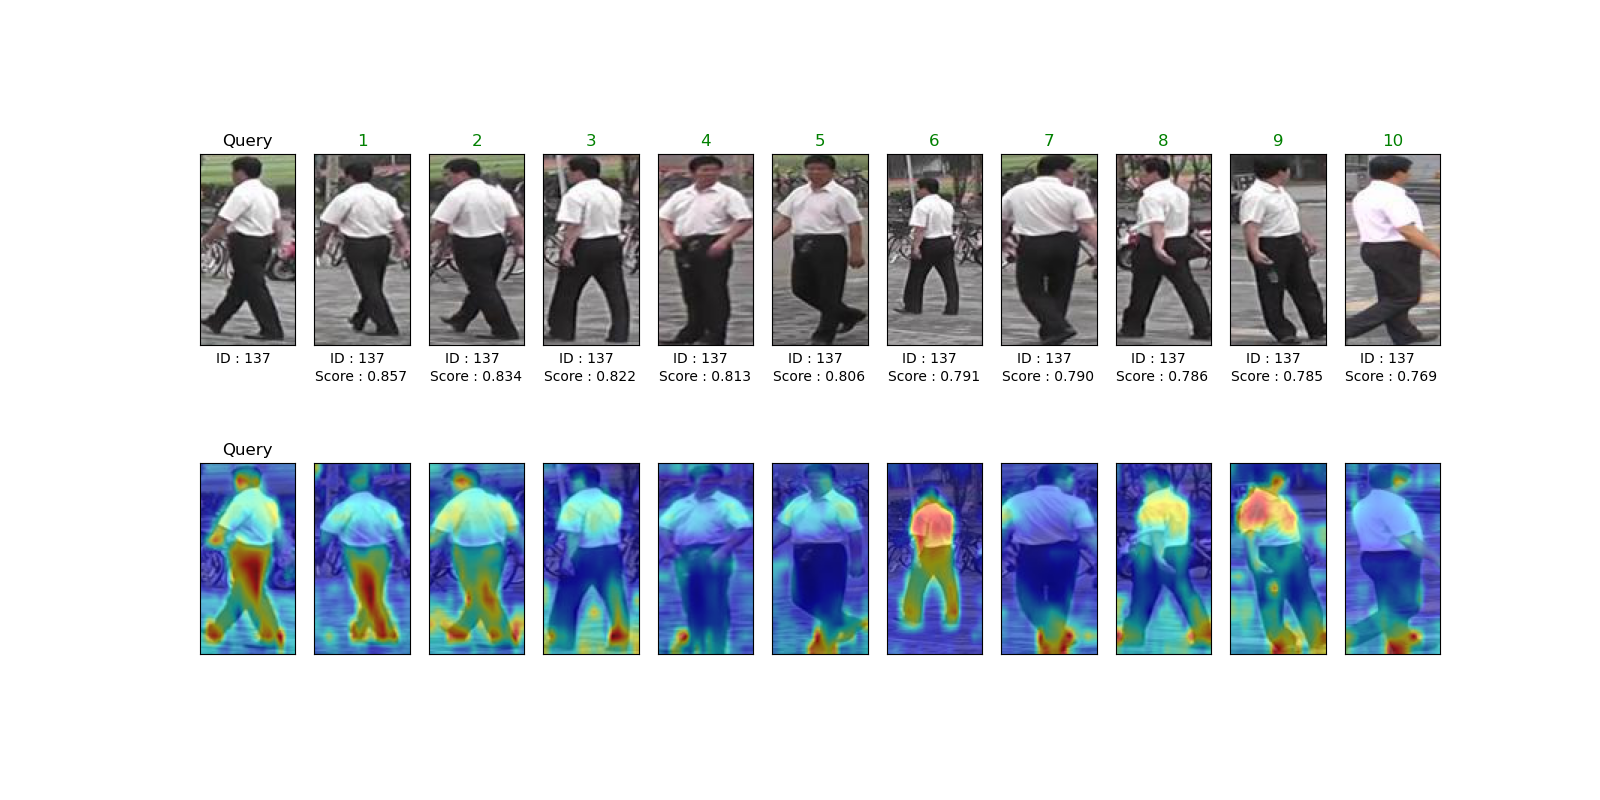
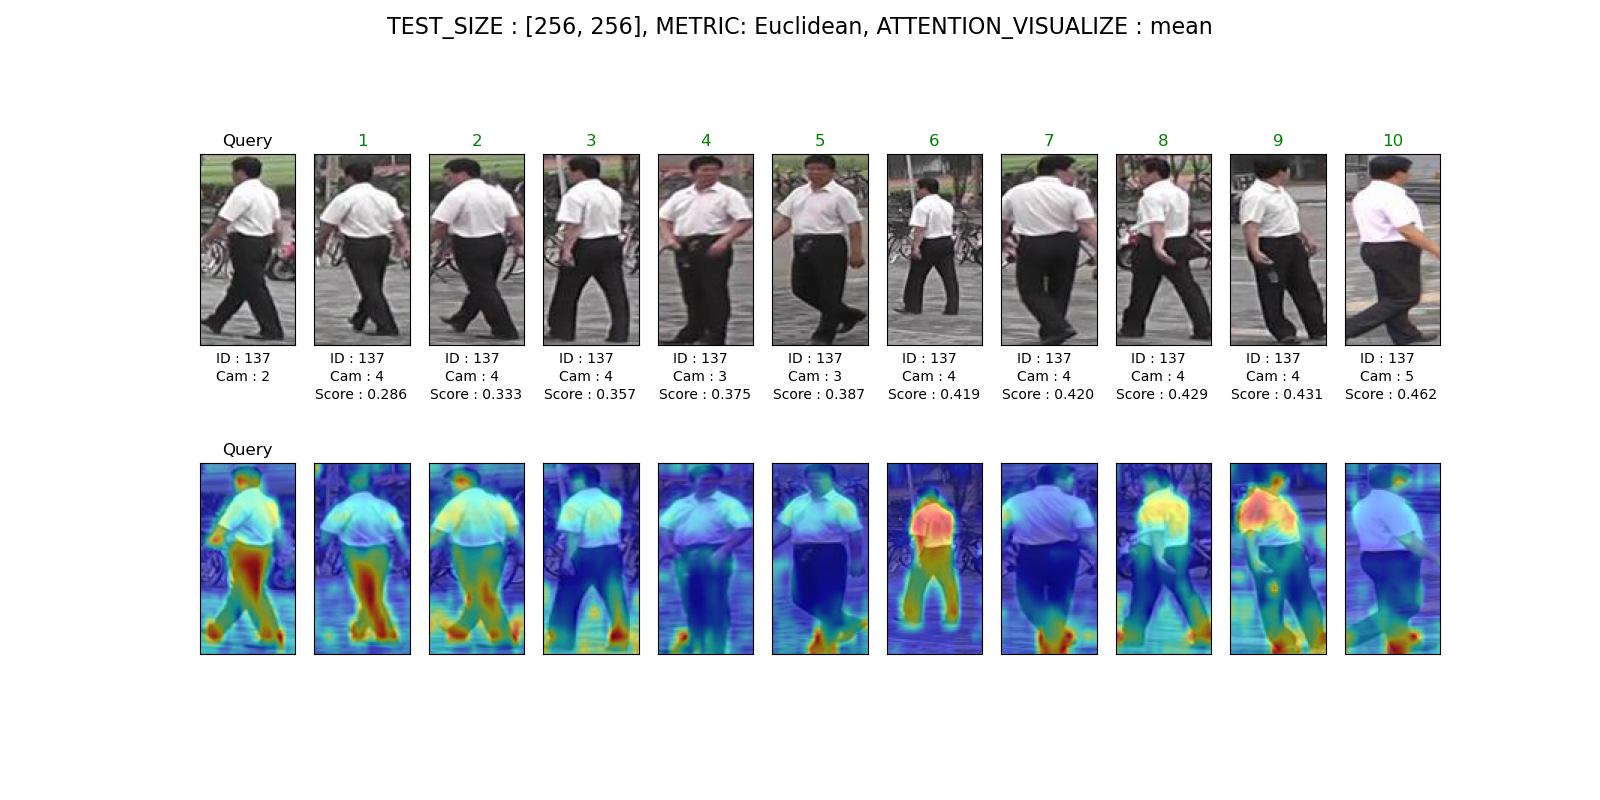
Max Error ID finding 0310

diff --git a/processor/demo.py b/processor/demo.py
@@ -45,6 +45,7 @@ def show_mask_on_image(img, mask):
 parser = argparse.ArgumentParser(description='Demo')
 parser.add_argument("--config_file", default="", help="path to config file", type=str)
 parser.add_argument('--use_cuda', action='store_true', default=False,help='Use NVIDIA GPU acceleration')
+
 # parser.add_argument('--test_dir',default='/mnt/hdd_data/Dataset/market1501',type=str, help='./test_data')
 parser.add_argument("opts", help="Modify config options using the command-line", default=None,
                         nargs=argparse.REMAINDER)
@@ -62,6 +63,7 @@ transform = T.Compose([
 ])
 
 os.environ['CUDA_VISIBLE_DEVICES'] = cfg.MODEL.DEVICE_ID
+
 
 dataset = __factory[cfg.DATASETS.NAMES](root=cfg.DATASETS.ROOT_DIR)
 model = make_model(cfg, num_class=dataset.num_train_pids, camera_num=dataset.num_train_cams, view_num = dataset.num_train_vids)
@@ -83,7 +85,8 @@ def axis_off(ax):
     ax.get_xaxis().set_visible(False)
     ax.get_yaxis().set_visible(False)  
 ######################################################################
-result = scipy.io.loadmat('pytorch_result.mat')
+result = scipy.io.loadmat(f'result/result_matrix/{cfg.INDEX}.mat')
+
 query_feature = torch.FloatTensor(result['query_f'])
 query_cam = result['query_cam'][0]
 query_label = result['query_label'][0]
@@ -96,6 +99,8 @@ gallery_label = result['gallery_label'][0]
 g_root = result['g_dir'][0]
 gallery_path_list = result['img_path'][query_label.size:]
 
+dist_eucd = result['Euclidean_dist']
+dist_cos = result['Cos_dist']
 # img_path = result['img_path']
 
 # multi = os.path.isfile('multi_query.mat')
@@ -112,31 +117,78 @@ gallery_feature = gallery_feature.cuda()
 
 #######################################################################
 # sort the images
-def sort_img(qf, ql, qc, gf, gl, gc):
-    query = qf.view(-1,1)
-    # query.view(-1,1) --> torch.size([768,1])
-    # print(query.shape)
-    score = torch.mm(gf,query) # gf.size([15913,768]), query.size([768,1]) --> matrix multiplication [15913,1]
-    # 각 gallery feature와 query feature간 내적 (similairity)
-    score = score.squeeze(1).cpu() # feature similarity size : gallery size
-    score = score.numpy() 
+# def sort_img(qf, ql, qc, gf, gl, gc):
+#     query = qf.view(-1,1)
+#     # query.view(-1,1) --> torch.size([768,1])
+#     # print(query.shape)
+#     score = torch.mm(gf,query) # gf.size([15913,768]), query.size([768,1]) --> matrix multiplication [15913,1]
+#     # 각 gallery feature와 query feature간 내적 (similairity)
+#     score = score.squeeze(1).cpu() # feature similarity size : gallery size
+#     score = score.numpy() 
+#     # predict index
+#     index = np.argsort(score)[::-1] #sort by index from large to small
+#     score = np.sort(score)[::-1]
+#     # index = index[0:2000]
+#     # good index
+#     query_index = np.argwhere(gl==ql) # query label과 gallery index가 같은 index
+#     #same camera
+#     camera_index = np.argwhere(gc==qc) # query cam과 gallery cam이 같은 index
+
+#     #good_index = np.setdiff1d(query_index, camera_index, assume_unique=True)
+#     junk_index1 = np.argwhere(gl==-1) # gallery id가 -1인 건 제외
+#     junk_index2 = np.intersect1d(query_index, camera_index) # np.intersect1d : 교집합, 즉 pid와 cid가 같은 gallery
+#     junk_index = np.append(junk_index2, junk_index1) 
+
+#     mask = np.in1d(index, junk_index, invert=True) # 1차원 배열의 각 요소가 두번째 배열에도 있는지 확인
+#     index = index[mask]
+#     score = score[mask]
+#     # test = np.array([0, 1, 2, 5, 0])
+#     # states = [0, 2]
+#     # mask = np.in1d(test, states)
+#     # mask
+#     # array([ True, False,  True, False,  True])
+#     # test[mask]
+#     # array([0, 2, 0])
+#     # mask = np.in1d(test, states, invert=True)
+#     # mask
+#     # array([False,  True, False,  True, False])
+#     # test[mask]
+#     # array([1, 5])
+    
+#     # 즉, junk index를 제외한 index를 return 하겠다는 것
+
+#     return index, score
+
+def sort_img(dist_eucd, dist_cos, index, ql, qc, gl, gc):
+    
+    eucd_score = dist_eucd[index]
+    cos_score = dist_cos[index]
+
     # predict index
-    index = np.argsort(score)[::-1] #sort by index from large to small
-    score = np.sort(score)[::-1]
+    eucd_index = np.argsort(eucd_score) #sort by index from large to small
+    eucd_score = np.sort(eucd_score)
+
+    cos_index = np.argsort(cos_score)[::-1] #sort by index from large to small
+    cos_score = np.sort(cos_score)[::-1]
     # index = index[0:2000]
     # good index
-    query_index = np.argwhere(gl==ql) # query label과 gallery index가 같은 index
+    query_index = np.argwhere(gl==ql[index]) # query label과 gallery index가 같은 index
     #same camera
-    camera_index = np.argwhere(gc==qc) # query cam과 gallery cam이 같은 index
+    camera_index = np.argwhere(gc==qc[index]) # query cam과 gallery cam이 같은 index
 
     #good_index = np.setdiff1d(query_index, camera_index, assume_unique=True)
     junk_index1 = np.argwhere(gl==-1) # gallery id가 -1인 건 제외
     junk_index2 = np.intersect1d(query_index, camera_index) # np.intersect1d : 교집합, 즉 pid와 cid가 같은 gallery
     junk_index = np.append(junk_index2, junk_index1) 
 
-    mask = np.in1d(index, junk_index, invert=True) # 1차원 배열의 각 요소가 두번째 배열에도 있는지 확인
-    index = index[mask]
-    score = score[mask]
+    eucd_mask = np.in1d(eucd_index, junk_index, invert=True)
+    cos_mask = np.in1d(cos_index, junk_index, invert=True) # 1차원 배열의 각 요소가 두번째 배열에도 있는지 확인
+    
+    eucd_index = eucd_index[eucd_mask]
+    eucd_score = eucd_score[eucd_mask]
+
+    cos_index = cos_index[cos_mask]
+    cos_score = cos_score[cos_mask]
     # test = np.array([0, 1, 2, 5, 0])
     # states = [0, 2]
     # mask = np.in1d(test, states)
@@ -152,8 +204,94 @@ def sort_img(qf, ql, qc, gf, gl, gc):
     
     # 즉, junk index를 제외한 index를 return 하겠다는 것
 
-    return index,score
+    return eucd_index, eucd_score, cos_index, cos_score
 
+def sort_img_2(dist_eucd, dist_cos, rank, ql, qc, gl, gc):
+    
+    query_length = dist_eucd.shape[0]
+    query_ID = np.unique(ql)
+
+    eucd_score = dist_eucd
+    cos_score = dist_cos
+    # predict index
+    eucd_index = np.argsort(eucd_score) # sort by index from large to small
+    eucd_score = np.sort(eucd_score)
+
+    cos_index = np.argsort(cos_score)
+    #cos_index = np.flip(cos_index,1) # sort by index from large to small
+    cos_score = np.sort(cos_score)
+    #cos_score = np.flip(cos_score,1) # sort by index from large to small
+    # index = index[0:2000]
+    # good index
+    eucd_rank_index = np.zeros((query_length,rank)).astype(int)
+    eucd_rank_score = np.zeros((query_length,rank))
+    cos_rank_index = np.zeros((query_length,rank)).astype(int)
+    cos_rank_score = np.zeros((query_length,rank))
+    query_ID_wise_match_Eucd = np.zeros(query_ID.max()+1).astype(int)
+    query_ID_wise_match_Cos = np.zeros(query_ID.max()+1).astype(int)
+    for idx in range(query_length):
+
+        query_index = np.argwhere(gl==ql[idx]) # query label과 gallery index가 같은 index
+        #same camera
+        camera_index = np.argwhere(gc==qc[idx]) # query cam과 gallery cam이 같은 index
+
+        #good_index = np.setdiff1d(query_index, camera_index, assume_unique=True)
+        junk_index1 = np.argwhere(gl==-1) # gallery id가 -1인 건 제외
+        junk_index2 = np.intersect1d(query_index, camera_index) # np.intersect1d : 교집합, 즉 pid와 cid가 같은 gallery
+        junk_index = np.append(junk_index2, junk_index1) 
+
+        eucd_mask = np.in1d(eucd_index[idx], junk_index, invert=True)
+        cos_mask = np.in1d(cos_index[idx], junk_index, invert=True) # 1차원 배열의 각 요소가 두번째 배열에도 있는지 확인
+        
+        eucd_index_idx = eucd_index[idx][eucd_mask]
+        eucd_score_idx = eucd_score[idx][eucd_mask]
+
+        cos_index_idx = cos_index[idx][cos_mask]
+        cos_score_idx = cos_score[idx][cos_mask]
+
+        eucd_rank_index[idx] = eucd_index_idx[:rank]
+        query_ID_wise_match_Eucd[ql[idx]] += np.count_nonzero(gl[eucd_rank_index[idx]] != ql[idx])
+        eucd_rank_score[idx] = eucd_score_idx[:rank]
+
+        cos_rank_index[idx] = cos_index_idx[:rank]
+        query_ID_wise_match_Cos[ql[idx]] += np.count_nonzero(gl[cos_rank_index[idx]] != ql[idx])
+        cos_rank_score[idx] = cos_score_idx[:rank]
+    
+    query_ID_wise_match_Eucd = query_ID_wise_match_Eucd[query_ID]
+    query_ID_wise_match_Cos = query_ID_wise_match_Cos[query_ID]
+
+    Max_error_ID_Eucd = query_ID[query_ID_wise_match_Eucd.argmax()]
+    Max_error_ID_Eucd_idx = np.where(ql==Max_error_ID_Eucd)[0]
+    Rank_error_Eucd_idx = eucd_rank_index[Max_error_ID_Eucd_idx]
+    Rank_error_Eucd_score = eucd_rank_score[Max_error_ID_Eucd_idx]
+
+    Max_error_ID_Cos = query_ID[query_ID_wise_match_Cos.argmax()]
+    Max_error_ID_Cos_idx = np.where(ql==Max_error_ID_Cos)[0]
+    Rank_error_Cos_idx = cos_rank_index[Max_error_ID_Cos_idx]
+    Rank_error_Cos_score = cos_rank_score[Max_error_ID_Cos_idx]
+    # for i, ID in enumerate(query_ID) :
+    #     query_ID_index = np.where(ql == ID)[0]
+    #     for j in query_ID_index :
+    #         query_ID_wise_match_Eucd[i] += np.count_nonzero(gl[eucd_rank_index[j]] != ID)
+    #         query_ID_wise_match_Cos[i] += np.count_nonzero(gl[cos_rank_index[j]] != ID)
+
+
+    # test = np.array([0, 1, 2, 5, 0])
+    # states = [0, 2]
+    # mask = np.in1d(test, states)
+    # mask
+    # array([ True, False,  True, False,  True])
+    # test[mask]
+    # array([0, 2, 0])
+    # mask = np.in1d(test, states, invert=True)
+    # mask
+    # array([False,  True, False,  True, False])
+    # test[mask]
+    # array([1, 5])
+    
+    # 즉, junk index를 제외한 index를 return 하겠다는 것
+
+    return  Max_error_ID_Eucd_idx, Max_error_ID_Cos_idx, Rank_error_Eucd_idx, Rank_error_Eucd_score, Rank_error_Cos_idx, Rank_error_Cos_score
 def Attention_map(img_path):
     img = Image.open(img_path)
     img_input = img.resize(cfg.INPUT.SIZE_TEST)
@@ -177,7 +315,11 @@ def Attention_map(img_path):
     return mask
     # cv2.imwrite("./result/"+sname, mask)
 i = cfg.TEST.VISUALIZE_INDEX
-index,score = sort_img(query_feature[i],query_label[i],query_cam[i],gallery_feature,gallery_label,gallery_cam)
+# index,score = sort_img(query_feature[i],query_label[i],query_cam[i],gallery_feature,gallery_label,gallery_cam)
+
+eucd_index,eucd_score,cos_index,cos_score = sort_img(dist_eucd,dist_cos,i,query_label,query_cam,gallery_label,gallery_cam)
+Query_idx_Eucd, Query_idx_Cos, Rank_error_Eucd_idx, Rank_error_Eucd_score, Rank_error_Cos_idx, Rank_error_Cos_score = sort_img_2(dist_eucd,dist_cos,10,query_label,query_cam,gallery_label,gallery_cam)
+
 # query_feature[i].size() = 768
 # gallery_feature.size() = [15913,768]
 
@@ -186,36 +328,48 @@ index,score = sort_img(query_feature[i],query_label[i],query_cam[i],gallery_feat
 
 query_path = (q_root +'/'+ query_path_list[i]).rstrip()
 query_label = query_label[i]
+query_cam = query_cam[i]
 print(query_path)
 print('Top 10 images are as follow:')
 try: # Visualize Ranking Result 
     # Graphical User Interface is needed
     fig = plt.figure(figsize=(16,8)) #단위 인치
+    fig.suptitle(f'TEST_SIZE : {cfg.INPUT.SIZE_TEST}, METRIC: {cfg.TEST.VISUALIZE_METRIC}, ATTENTION_VISUALIZE : {cfg.TEST.HEAD_FUSION}', fontsize=16) 
     ax = plt.subplot(2,11,1) # row, col, index
     axis_off(ax)
     imshow(query_path,'Query')
     ax.text(10,140,f"ID : {query_label}")
+    ax.text(10,152,f"Cam : {query_cam}")
     mask = Attention_map(query_path)
     attn_ax = plt.subplot(2,11,12)
     axis_off(attn_ax)
     plt.imshow(mask)
     plt.title('Query')
+    if cfg.TEST.VISUALIZE_METRIC == "Euclidean":
+        index = eucd_index
+        score = eucd_score
+    elif cfg.TEST.VISUALIZE_METRIC == "Cos":
+        index = cos_index
+        score = cos_score
+    else :
+        raise NotImplementedError("Visualize metric should be Euclidean or Cosine similarity")
     for i in range(10):
         ax = plt.subplot(2,11,i+2)
         ax.get_xaxis().set_visible(False)
         ax.get_yaxis().set_visible(False)
         img_path = (g_root + '/' + gallery_path_list[index[i]]).rstrip()
         label = gallery_label[index[i]]
+        cam = gallery_cam[index[i]]
         similarity_score = score[i]
         imshow(img_path)
-        
         if label == query_label:
             ax.set_title('%d'%(i+1), color='green')
         else:
             ax.set_title('%d'%(i+1), color='red')
 
-        ax.text(10,140,f"ID : {label}",) 
-        ax.text(0,152,"Score : {:.3f}".format(similarity_score))
+        ax.text(10,140,f"ID : {label}",)
+        ax.text(10,152,f"Cam : {cam}",)  
+        ax.text(0,164,"Score : {:.3f}".format(similarity_score))
         
         ax = plt.subplot(2,11,i+12+1)
         axis_off(ax)
@@ -230,4 +384,6 @@ except RuntimeError:
         print(img_path)
     print('If you want to see the visualization of the ranking result, graphical user interface is needed.')
 
-fig.savefig("show.png")
+result_img_path = f'result/result_visualize/{cfg.INDEX}'
+os.makedirs(result_img_path,exist_ok=True)
+fig.savefig(f"{result_img_path}/{cfg.TEST.VISUALIZE_INDEX}_{cfg.TEST.VISUALIZE_METRIC}.png")

diff --git a/processor/processor.py b/processor/processor.py
@@ -184,14 +184,14 @@ def do_inference(cfg,
             evaluator.update((feat, pid, camid))
             img_path_list.extend(imgpath)
     # feats : [76, 256, 768]
-    cmc, mAP, distmat, pids_all, camids_all, qf, gf, q_pids, g_pids, q_camids, g_camids = evaluator.compute() # cmc[i] = Rank i score
+    cmc, mAP, distmat_eucd, distmat_cos, pids_all, camids_all, qf, gf, q_pids, g_pids, q_camids, g_camids = evaluator.compute() # cmc[i] = Rank i score
     # distmat : (num_query,num_gallery) compared by euclidean distance
     logger.info("Validation Results ")
     logger.info("mAP: {:.1%}".format(mAP))
     for r in [1, 5, 10]:
         logger.info("CMC curve, Rank-{:<3}:{:.1%}".format(r, cmc[r - 1]))
-    result = {'gallery_f':gf.numpy(),'gallery_label':g_pids,'gallery_cam':g_camids,'query_f':qf.numpy(),'query_label':q_pids,'query_cam':q_camids,'img_path': img_path_list,'q_dir':q_dir,'g_dir':g_dir,'Euclidean_dist':distmat} # type(label) ,type(cam) = list , type(feature)= torch.tensor
-    path = f'result/result_matrix'
+    result = {'gallery_f':gf.numpy(),'gallery_label':g_pids,'gallery_cam':g_camids,'query_f':qf.numpy(),'query_label':q_pids,'query_cam':q_camids,'img_path': img_path_list,'q_dir':q_dir,'g_dir':g_dir,'Euclidean_dist':distmat_eucd, 'Cos_dist':distmat_cos} # type(label) ,type(cam) = list , type(feature)= torch.tensor
+    path = 'result/result_matrix'
     os.makedirs(path,exist_ok=True)
     scipy.io.savemat(f'{path}/{cfg.INDEX}.mat',result)
     

diff --git a/utils/metrics.py b/utils/metrics.py
@@ -145,10 +145,11 @@ class R1_mAP_eval():
             distmat = re_ranking(qf, gf, k1=50, k2=15, lambda_value=0.3)
         else:
             print('=> Computing DistMat with euclidean_distance')
-            distmat = euclidean_distance(qf, gf) # qf.size() = [3368,768], , gf.size() = [15913,768]
-        cmc, mAP = eval_func(distmat, q_pids, g_pids, q_camids, g_camids) 
+            distmat_eucd = euclidean_distance(qf, gf) # qf.size() = [3368,768], , gf.size() = [15913,768]
+            distmat_cos = cosine_similarity(qf, gf)
+        cmc, mAP = eval_func(distmat_cos, q_pids, g_pids, q_camids, g_camids) 
         # dist_mat.size() = [3368,15913], len(q_pids) = 3368, len(g_pids) = 15913, len(q_camids) = 3368, len(g_camids) = 15913
-        return cmc, mAP, distmat, self.pids, self.camids, qf, gf, q_pids, g_pids, q_camids, g_camids
+        return cmc, mAP, distmat_eucd, distmat_cos, self.pids, self.camids, qf, gf, q_pids, g_pids, q_camids, g_camids
 
 
 

diff --git a/config/defaults.py b/config/defaults.py
@@ -183,7 +183,9 @@ _C.TEST.DIST_MAT = "dist_mat.npy"
 # Whether calculate the eval score option: 'True', 'False'
 _C.TEST.EVAL = False
 _C.TEST.VISUALIZE = False
+_C.TEST.VISUALIZE_ID = 0
 _C.TEST.VISUALIZE_INDEX = 0
+_C.TEST.VISUALIZE_METRIC = ""
 _C.TEST.HEAD_FUSION = 'max'
 _C.TEST.DISCARD_RATIO = 0.9
 _C.TEST.EXPLAIN = False
